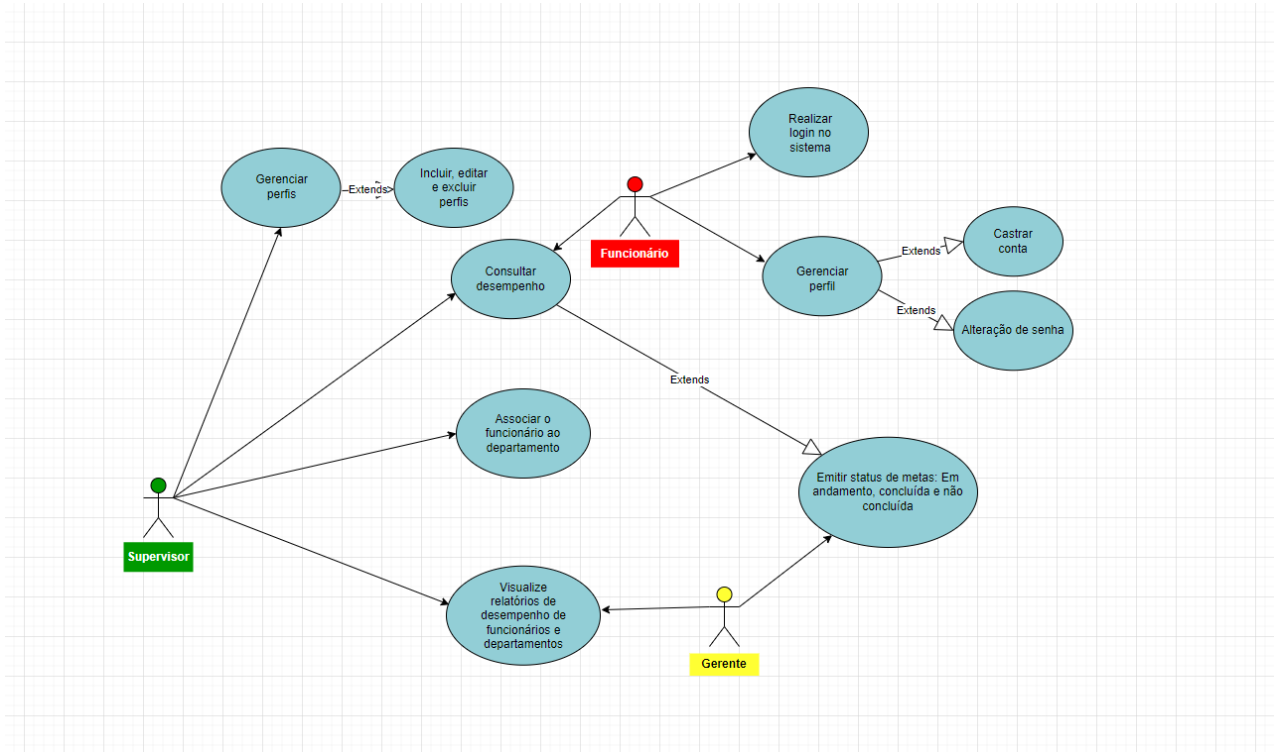
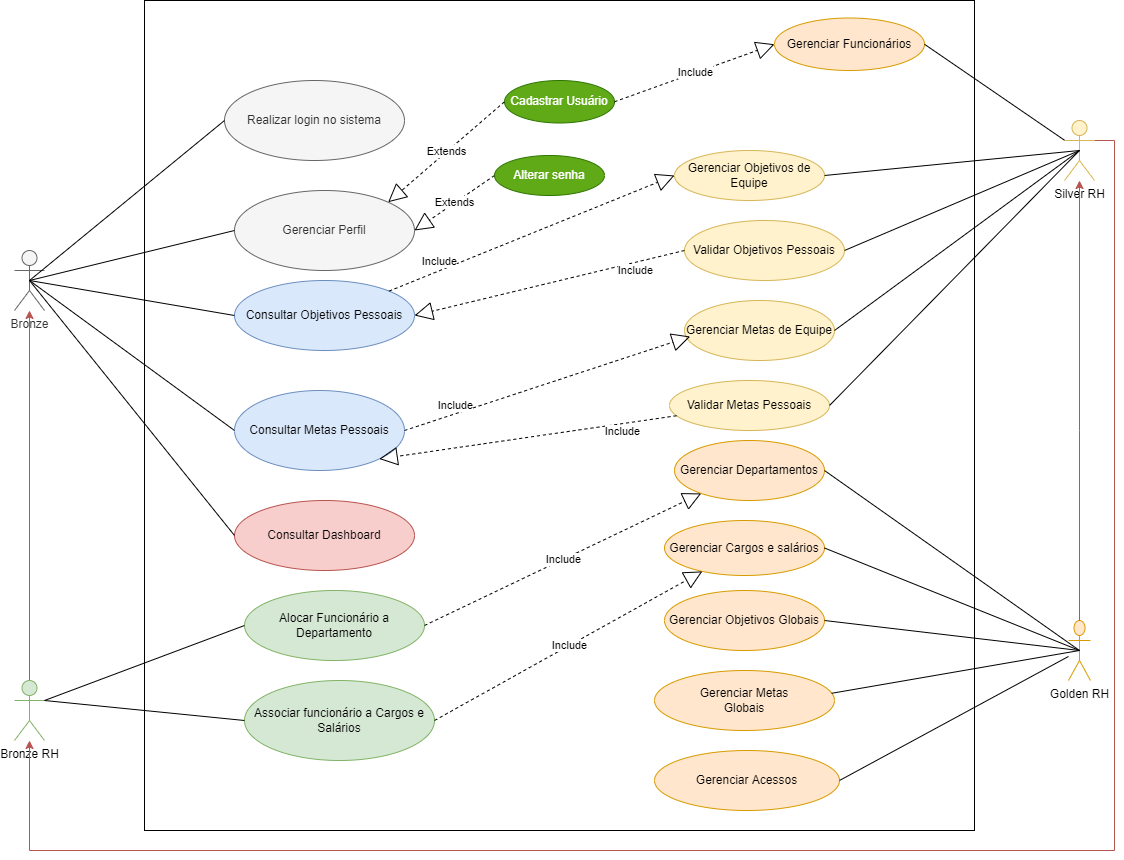
Revisão documentação - Especificação do Projeto
Atualização da documentação conforme necessidades observadas no desenvolvimento do projeto.

diff --git a/docs/02-Especificação do Projeto.md b/docs/02-Especificação do Projeto.md
@@ -20,6 +20,15 @@ Como citado anteriormente, nosso projeto tem foco em desenvolver um sistema que 
 |-----------------------------|------|------|
 |<img src="/docs/img/photo-lucia.png"> | **Idade:** 42 anos  | **Ocupação:** Supervisora de RH na empresa Xing Ling do Brasil. Faz o gerenciamento do time e atividades de RH.|
 | **Motivações:** Lúcia está na empresa a 10 anos e foi recentemente promovida à supervisora de RH. Está motivada com as ideias e metodologias de Lucas e está empenhada em fazer acontecer a inovação na empresa.	| **Frustrações:** A ausência de ferramentas sistematizadas de gestão de RH, onera seu tempo de pensamento inovador com funções operacionais de preenchimento de formulários de cadastros, envio e recebimento de malotes, dentre outras necessidades do setor. | **Hobbies, História:** Lucia realiza um sonho de estudar e conhecer belas artes. |
+| **Lara Fernandes da Silva** |      |      |
+|-----------------------------|------|------|
+|<img src="/docs/img/Lara_Fernandes_da_Silva.jpg"> | **Idade:** 27 anos  | **Ocupação:** Engenheira de Software na empresa Xing Ling do Brasil. Promove as mudanças de TI.|
+| **Motivações:** Lara entende que se existe mudança na organização é poorque a organização está crescendo.	| **Frustrações:** Sente-se "limitada" na contribuição do crescimento da organização por não conhecer o perfil dos profissionais que transitam pela empresa. | **Hobbies, História:** Estudante de Tecnolgodia de desenvovilemnto de sistema e, nas horas de folga, nadadora. |
+
+| **João Matheus de Souza** |      |      |
+|-----------------------------|------|------|
+|<img src="/docs/img/João Matheus de Souza.jpg"> | **Idade:** 25 anos  | **Ocupação:** Engenheiro Industrial na empresa Xing Ling do Brasil. Operações de produção.|
+| **Motivações:** João é um jovem engenheiro que se preocupa em prommover a integração profissional e desenvolvimento do time.	| **Frustrações:** O acesso às ações motivacionais propostas pela empresa são lentas e muitas vezes não pode ser cumprida pelo time por chegarem vencidas. | **Hobbies, História:** Instrutor do Senai e fisioculturista. |
 
 ## Histórias de Usuários
 
@@ -27,17 +36,19 @@ Com base na análise das personas forma identificadas as seguintes histórias de
 
 |EU COMO... `PERSONA`| QUERO/PRECISO ... `FUNCIONALIDADE` |PARA ... `MOTIVO/VALOR`                 |
 |--------------------|------------------------------------|----------------------------------------|
-|Lucas | Fornecer metas trimestrais | Balanceamento e cadastro pelo time de RH. |
-|Lucas | Visualizar relatórios individuais de cada departamento | Acompanhar o desenvolvimento da empresa. |
-|Lucas | Apresentar aos funcionarios as metas atingidas e não atingidas | Realizar um feedback consistente e com dados precisos dos pontos de melhoria. |
-|Lucia  | Realizar cadastros de funcionários       | Adicionar funcionários ao Banco de Dados da empresa.          |
-|Lucia  | Realizar cadastros de metas       | Gerar controle de metas.          |
-|Lucia| Controlar metas      | Que reflitam com clareza os indicadores de performance.|
-|Melissa| Emitir situação de metas   | Informar aos gerentes e supervisores a conclusão ou não dos objetivos atribuidos.|
-|Melissa| Alterar minha senha do sistema   | Poder recuperar a senha de acesso em caso de esquecimento.|
-|Melissa|  Efetuar Login no sistema  | Acessar o sistema para dar inicio ao expediente.|
-|Lucas| Acompanhar metas individuais    | Que cada membro da equipe cumpra as metas individuais.  |
-|Lucas| Acompanhar metas de Equipe    | Que cada equipe cumpra metas as metas de equipe.  |
+|Lucas | Receber dados estatísticos de funcionários | Analisar tendências, cumprimento das metas e atendimento aos objetivos. |
+|Lucas | Estabelecer metas para atingimento em curto, médio e longo prazo | Balanceamento e cadastro pelo time de RH. |
+|Lucas | Fornecer objetivos ara atingimento em curto, médio e longo prazo | Balanceamento e cadastro pelo time de RH. |
+|Lucia  | Realizar cadastros de funcionários       | Adicionar funcionários ao Banco de Dados da empresa          |
+|Lucia  | Realizar cadastros de metas       | Gerar controle de metas          |
+|Lucia  | Realizar cadastros de objetivos       | Gerar controle de objetivos         |
+|Melissa| Controlar metas      | Que reflitam com clareza os indicadores de performance|
+|Melissa| Controlar objetivo   | Que reflitam com clareza os indicadores de aperfeiçoamento profissional|
+|Melissa | Realizar pesquisa sobre entrada e saída      | Gerar relatório de ponto         |
+|Joao Matheus| Realizar consulta de ponto      | Acompanhar a presença nos treinamentos         |
+|Joao Matheus| Acompanhar metas individuais    | Que cada membro da equipe cumpra as metas individuais  |
+|Joao Matheus| Acompanhar metas de Equipe    | Que cada equipe cumpra metas as metas de equipe  |
+|Joao Matheus| Acompanhar objetivos individuais  | Garantir o aperfeicoamento profissional de cada membro da equipe|
 
 
 
@@ -50,14 +61,23 @@ As tabelas que se seguem apresentam os requisitos funcionais e não funcionais q
 
 |ID    | Descrição do Requisito  | Prioridade |
 |------|-------------------------|------|
-|RF01| O Sistema deverá permitir o login e alteração de senha dos colaboradores.| ALTA | 
-|RF02| O Sistema deve permitir ao supervisor a inserção e exclusão de perfis cadastratos.| ALTA | 
-|RF03| O Sistema deve permitir que o supervisor associe o funcionário a um departamento.| ALTA | 
-|RF04| O Sistema deve permitir que o supervisor acompanhe o relatório de desempenho e metas de seus subordinados.| ALTA | 
-|RF05| O Sistema deve permitir ao gerente e ao supervisor visualizar relatórios de cada departamento.| ALTA | 
-|RF06| O Sistema deve emitir status de metas atingidas/não atingidas que pode ser consultado pelo supervisor, gerente e funcionário.| ALTA | 
-|RF07| O Sistema deverá emitir ranqueamento (top 5) de: metas atingidas, metas não atingidas.| ALTA | 
-
+|RF01| O Sistema deverá Permitir o login de funcionários da empresa | ALTA | 
+|RF02| O Sistema deverá Permitir o recuperação de senha | BAIXA | 
+|RF03| O Sistema deverá Permitir o gerenciamento de usuários (CRUD) | ALTA | 
+|RF04| O Sistema deverá Permitir que o Usuário Silver RH deverá gerenciar funcionários (CRUD) | ALTA | 
+|RF05| O Sistema deverá Permitir que o Usuário Golden RH deverá gerenciar Departamentos (CRUD) | ALTA |
+|RF06| O Sistema deverá Permitir que o Usuário Silver RH deverá gerenciar metas (CRUD) | ALTA | 
+|RF07| O Sistema deverá Permitir que o Usuário Silver RH deverá gerenciar objetivos (CRUD) | BAIXA | 
+|RF08| O Sistema deverá Permitir que o Usuário Silver RH deverá gerenciar cargos e salários (CRUD) | BAIXA | 
+|RF09| O Sistema deverá Permitir que o Usuário Silver RH deverá cadastrar Metas para Funcionário | ALTA |
+|RF10| O Sistema deverá Permitir que o Usuário Silver RH deverá cadastrar Objetivos para Funcionário | BAIXA | 
+|RF11| O Sistema deverá Permitir que o Usuário Silver/Golden RH deverá associar um Funcionário a um deparamento | ALTA |
+|RF12| O Sistema deverá Permitir que o Usuário Bronze/Silver/Golden deverá consultar relatórios estatísticos | ALTA | 
+|RF13| O Sistema deverá Permitir que o Usuário Bronze/Silver/Golden RH deverá associar um funcionário a um cargo e salário | MÉDIA | 
+|RF14| O Sistema deve permitir que o Usuário Bronze/Silver/Golden possa consultar relatório de acompanhamento das metas | MÉDIA | 
+|RF15| O Sistema deve permitir que o Usuário Bronze/Silver/Golden possa consultar relatório de acompanhamento anual dos objetivos | BAIXA | 
+|RF16| O Sistema deve permitir que o Usuário Bronze/Silver/Golden RH possa cadastrar metas atingidas/não atingidas| ALTA | 
+|RF17| O sistema deverá emitir ranqueamento (top 5) de: metas atingidas, metas não atingidas. | ALTA |
 
 ### Requisitos não Funcionais
 
@@ -87,9 +107,11 @@ O projeto está restrito pelos itens apresentados na tabela a seguir.
 
 |ATOR|	DESCRIÇÃO|
 |----|-----------|
-|Funcionário| Consulta seu desempenho e metas, realiza seu cadastro, login e alteração de senha. |
-|Supervisor| O supervisor é um funcionário responsável pelo controle de perfis, consulta o desempenho, controle de funcionários, controla departamentos e visualiza relatório.|
-|Gerente| Responsável pelo gerenciamento de departamentos, funcionário e visualiza relatório de desempenho dos mesmos.|
+|Bonze| Ator que desempenha o papel de funcionário padrão da empresa, realiza consulta seu desempenho e metas, efetiva seu cadastro, login e alteração de senha, além de consultar o dashboard da organização. |
+|Bonze RH| Ator que desempenha o papel de funcionário padrão da empresa no setor de RH, realiza as funções do ator Bronze e é capaz de realizar algumas funções específicas de RH. |
+|Silver| Ator que desempenha o papel de funcionario administrativo, podendo realizar atividades específicas conforme necessidades da organização|
+|Silver RH| Ator que desempenha o papela de funcionario realiza o gerenciamento de funcionarios, objetivos pessoais e de equipe, validação do cumprimento de metas além das funcões designadas ao Bronze RH|
+|Golden RH| Responsável pelo gerenciamento de departamentos, cargos e salários, definção de objetivos, gerenciamento de metas globais e gerenciamento de acessos. Possui, também, as atirbuições de um Silver RH.|
 
 |CASO DE USO|	DESCRIÇÃO|	RF|
 |-|-|-|
